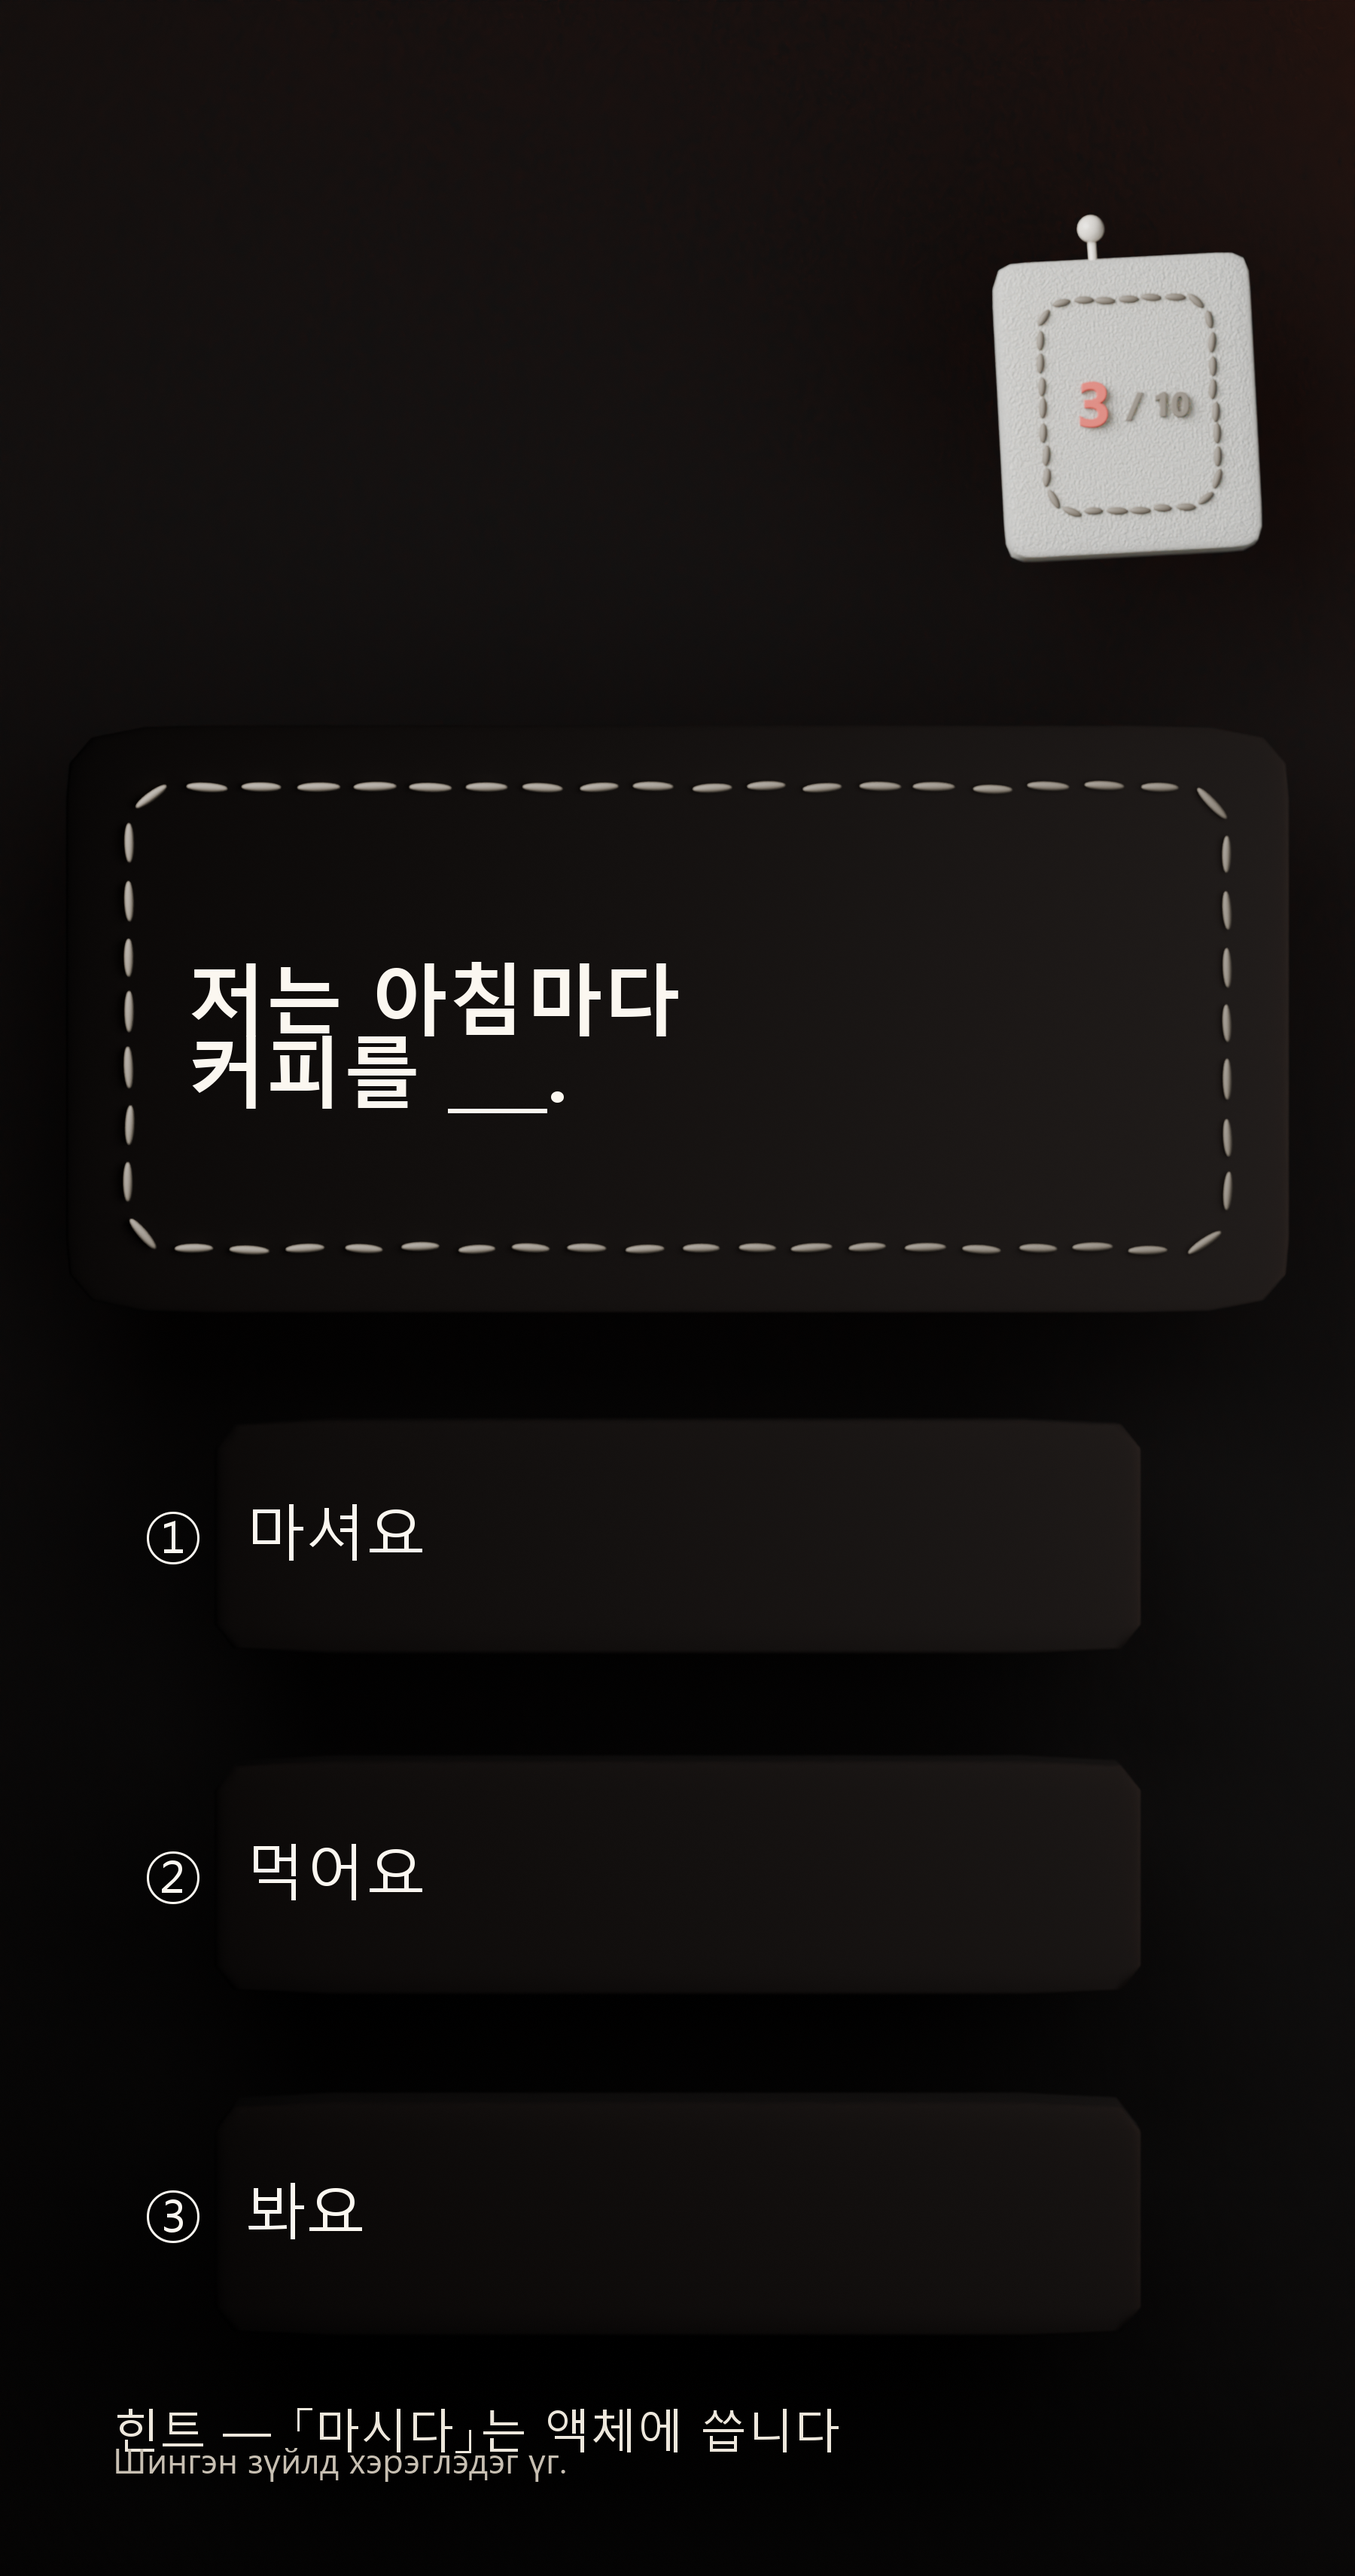
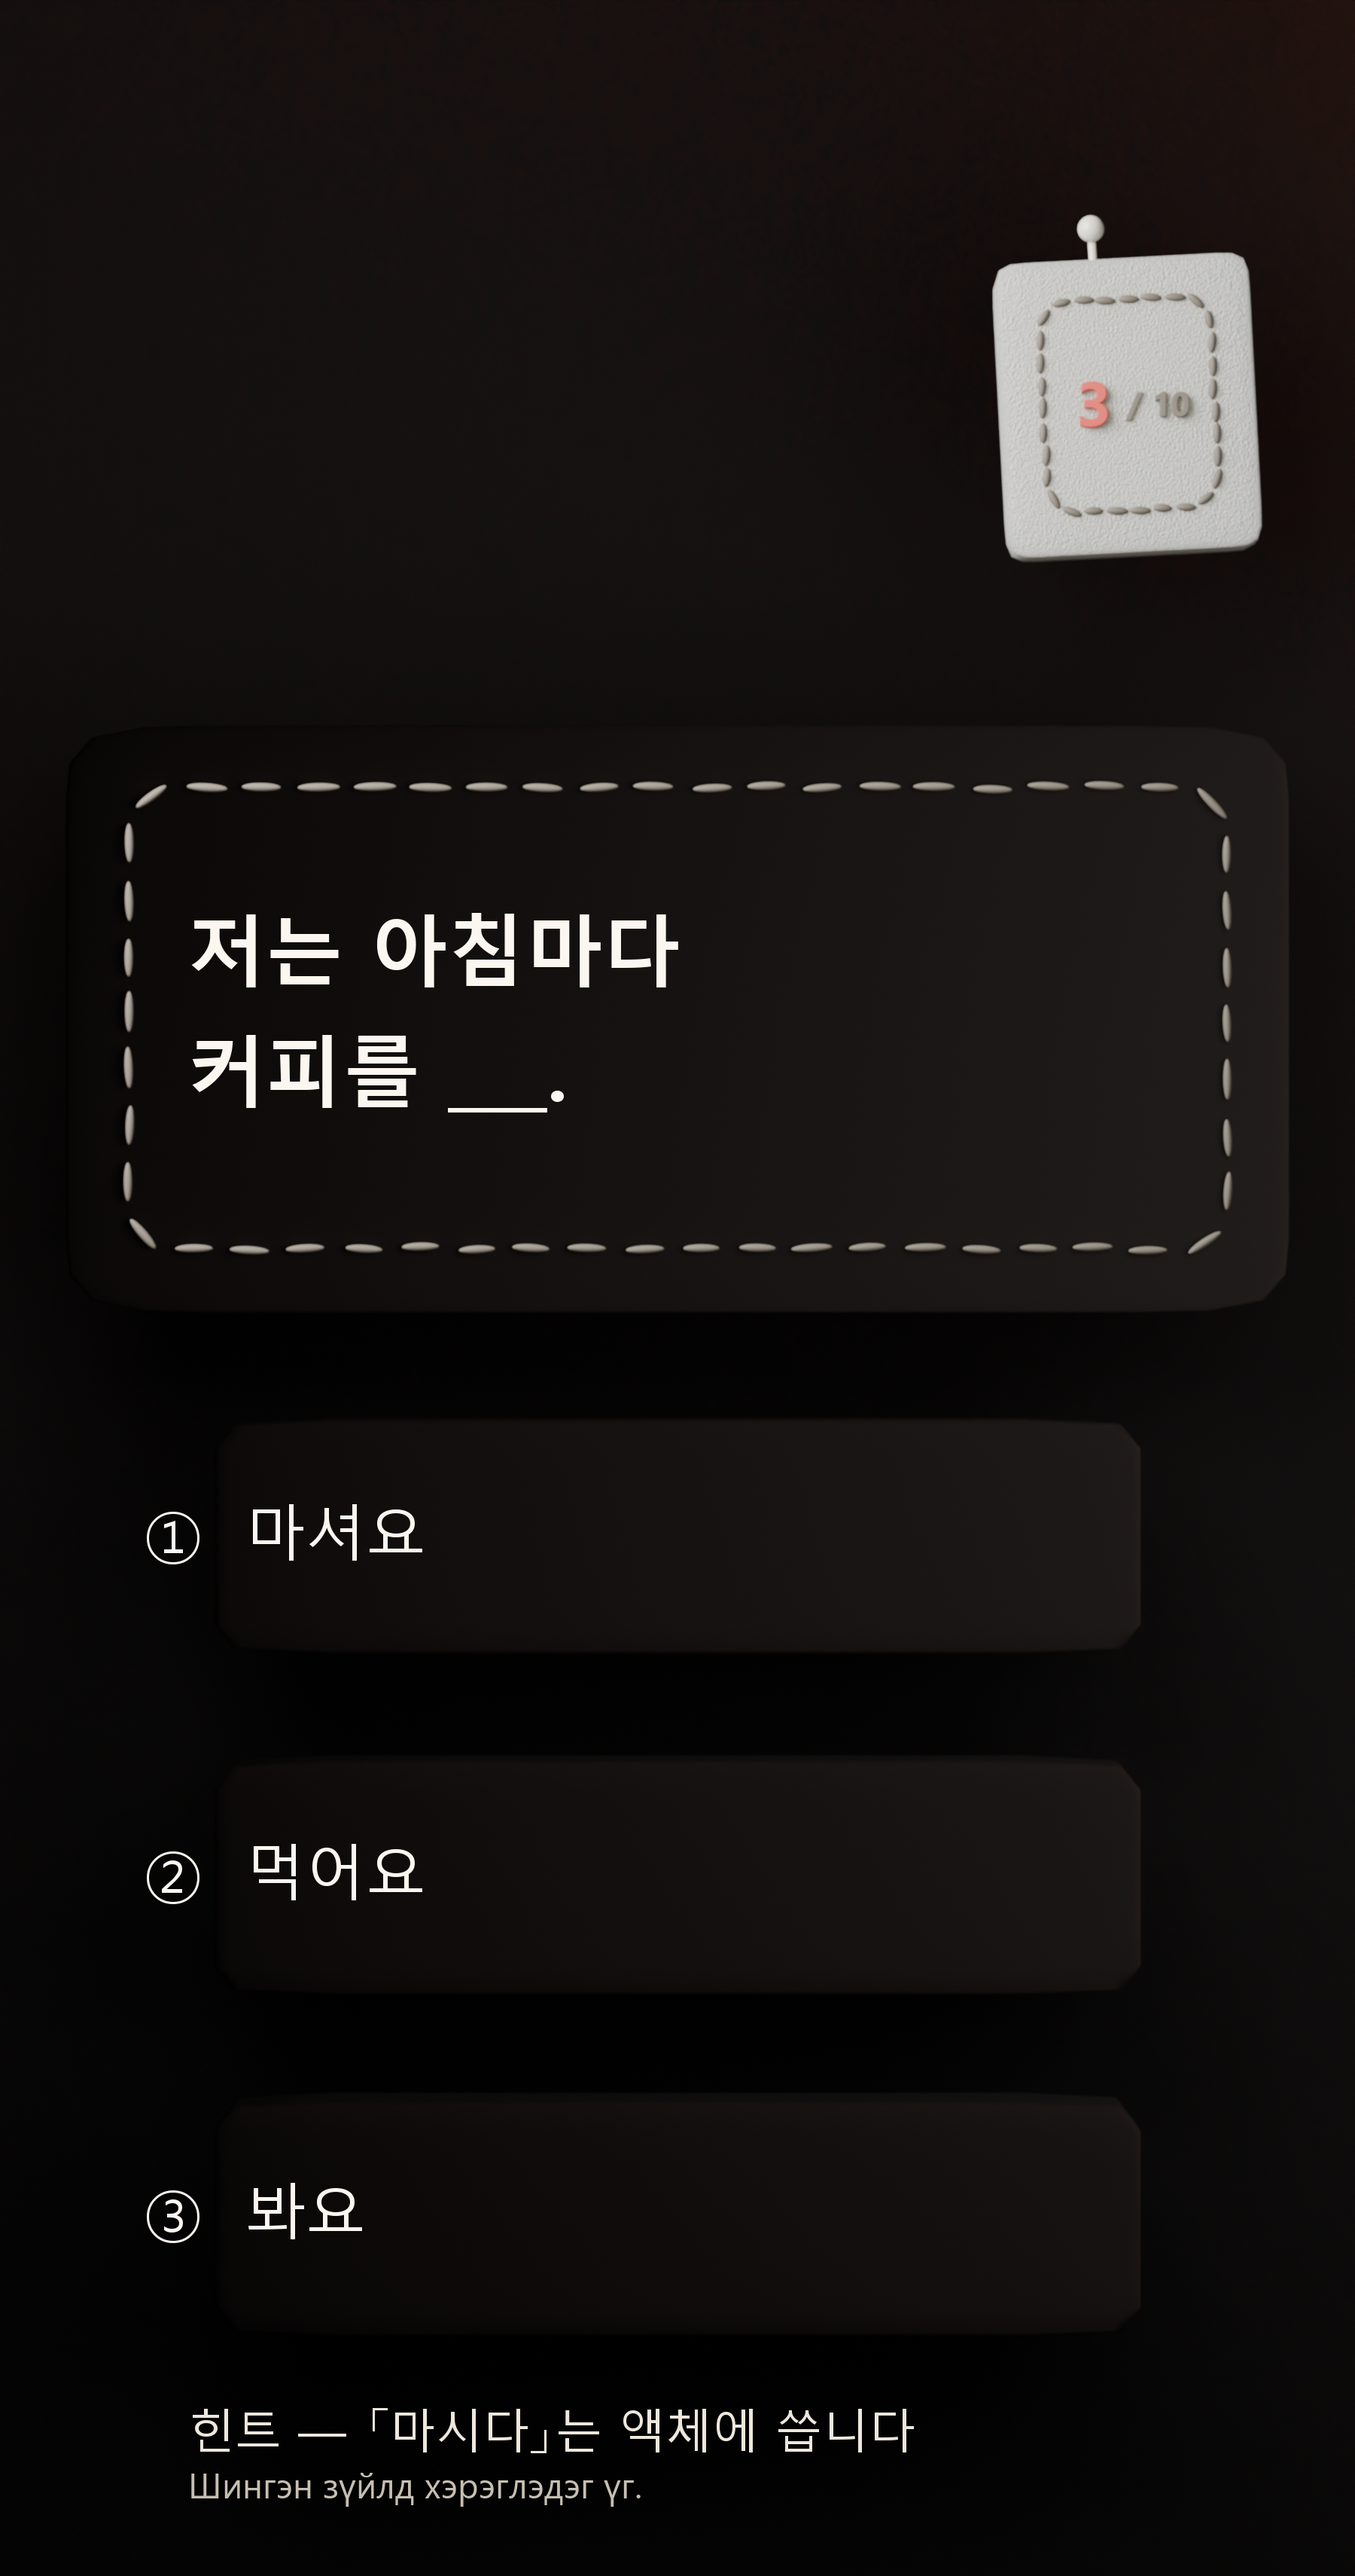
학생 화면 두 장의 줄 겹침 수리 — 행간만 픽() 을 안 거쳤다
성장판·조합판을 1800px 로 구우면 글자는 픽(크기) 로 1.667배 커지는데
행간·줄 사이 거리는 1080px 기준값 그대로여서 두 줄이 겹쳤다.
· 성장판: 93px 글자가 84px 간격 → 코치 두 줄 + 키릴 한 줄이 포개짐
· 조합판: 103px 글자가 96px 간격 → 문제 두 줄이 포개짐 · 힌트 x·키릴 내림도 같은 누락

고친 뒤 다시 구웠다. 대비 실측은 두 판 모두 전 항목 AAA 유지.
쓰임 = 페이스북 연재 16편의 소재 화면(9월~12월 · 바탕화면 「온라인 마케팅/올릴 것」).

Session-Id: local_41ba39d1-3a31-4b57-9155-157847bac92b

Changed region(s): [[0.0933, 0.9298, 0.6533, 0.9918], [0.28, 0.3409, 0.4978, 0.4029], [0.1244, 0.3409, 0.2489, 0.4029]]

diff --git a/docs/캐릭터/조합공방_0821/조합덧씌움3.py b/docs/캐릭터/조합공방_0821/조합덧씌움3.py
@@ -80,9 +80,12 @@ def 픽(v):
     return int(round(v * 배))
 
 좌 = int(round(칸["좌"] + 픽(98)))
-블록 = 256 if 문제키릴 else 172
-줄1 = int(round((칸["위"] + 칸["아래"]) / 2 - 블록 / 2 - 12))
-줄2, 몽골 = 줄1 + 96, 줄1 + 210
+# 🔴 블록·줄 사이 거리는 «1080px 판 기준값»이라 픽() 을 거쳐야 한다(09-04 수리).
+#   글자 크기는 글() 안에서 픽(크기) 로 커지는데 줄 사이만 그대로여서, 1800px 판에서
+#   103px 글자가 96px 간격으로 놓여 두 줄이 겹쳤다(구운 조합판_v1.png 실측).
+블록 = 픽(256 if 문제키릴 else 172)
+줄1 = int(round((칸["위"] + 칸["아래"]) / 2 - 블록 / 2 - 픽(12)))
+줄2, 몽골 = 줄1 + 픽(96), 줄1 + 픽(210)
 
 
 def 글(x, y, 본문, 크기, 색, bold=True, 서체=None):
@@ -125,9 +128,9 @@ for 번, 본문 in enumerate(("①  마셔요", "②  먹어요", "③  봐요")
 #   「못 쟀다(고리 화소 0)」로 그것을 잡아냈다(08-23). 힌트는 «화면 바닥»에 붙는 것이므로
 #   바닥에서 되짚는다 — 1080px 판에서 2052 − 142 = 1910 이라 옛 값과 같다.
 힌트y = H - 픽(142 if 힌트키릴 else 122)
-적는다("힌트", 보조, 150, 힌트y, "힌트 — 「마시다」는 액체에 씁니다", 37, False)
+적는다("힌트", 보조, 픽(150), 힌트y, "힌트 — 「마시다」는 액체에 씁니다", 37, False)
 if 힌트키릴:
-    적는다("힌트몽", 보조2, 150, 힌트y + 50, 몽["힌트"], 28, False, 키릴서체)
+    적는다("힌트몽", 보조2, 픽(150), 힌트y + 픽(50), 몽["힌트"], 28, False, 키릴서체)
 
 낸것 = os.path.join(여기, "조합판_v1" + 꼬리 + ".png")   # 채택판 이름은 «_그릇만» 을 뗀 것이다
 im.save(낸것)

diff --git a/docs/캐릭터/성장공방_0821/성장덧씌움.py b/docs/캐릭터/성장공방_0821/성장덧씌움.py
@@ -99,11 +99,14 @@ if 전면:
 #   전면은 글자를 한 단 줄여 카드에 맞춘다 — 그 축소가 곧 전면 병기의 대가다.
 큰 = 56 if not 전면 else 50
 작 = 34 if not 전면 else 31
-행 = 84 if not 전면 else 76
+# 🔴 행간·블록은 «1080px 판 기준값»이라 픽() 을 거쳐야 한다(09-04 수리).
+#   글자 크기는 글() 안에서 픽(크기) 로 커지는데 행간만 그대로여서, 1800px 판에서
+#   93px 글자가 84px 간격으로 놓여 두 줄이 겹쳤다(구운 성장판_v1.png 실측).
+행 = 픽(84 if not 전면 else 76)
 카중 = (카["위"] + 카["아래"]) / 2
 키릴줄 = 보조갈래 in ("층별", "전면")
-블록 = 296 + (50 if 키릴줄 else 0) + (44 if 전면 else 0)
-y0 = 카중 - 블록 / 2 - 12
+블록 = 픽(296 + (50 if 키릴줄 else 0) + (44 if 전면 else 0))
+y0 = 카중 - 블록 / 2 - 픽(12)
 y = y0
 기록.append(("오늘", 글(카["좌"] + 안여백, y, "오늘", 작, 보조2, False)))
 if 전면:
@@ -113,7 +116,7 @@ y += 픽(68)
 기록.append(("코치1", 글(카["좌"] + 안여백, y, "「-고 있다」를 세 번", 큰, 잉크, True)))
 y += 행
 기록.append(("코치2", 글(카["좌"] + 안여백, y, "맞게 썼어요.", 큰, 잉크, True)))
-y += 행 + 16
+y += 행 + 픽(16)
 if 키릴줄:
     기록.append(("코치몽", 글(카["좌"] + 안여백, y, 몽["코치"], 28, 보조2, False, 서체=키릴)))
     y += 픽(50)
